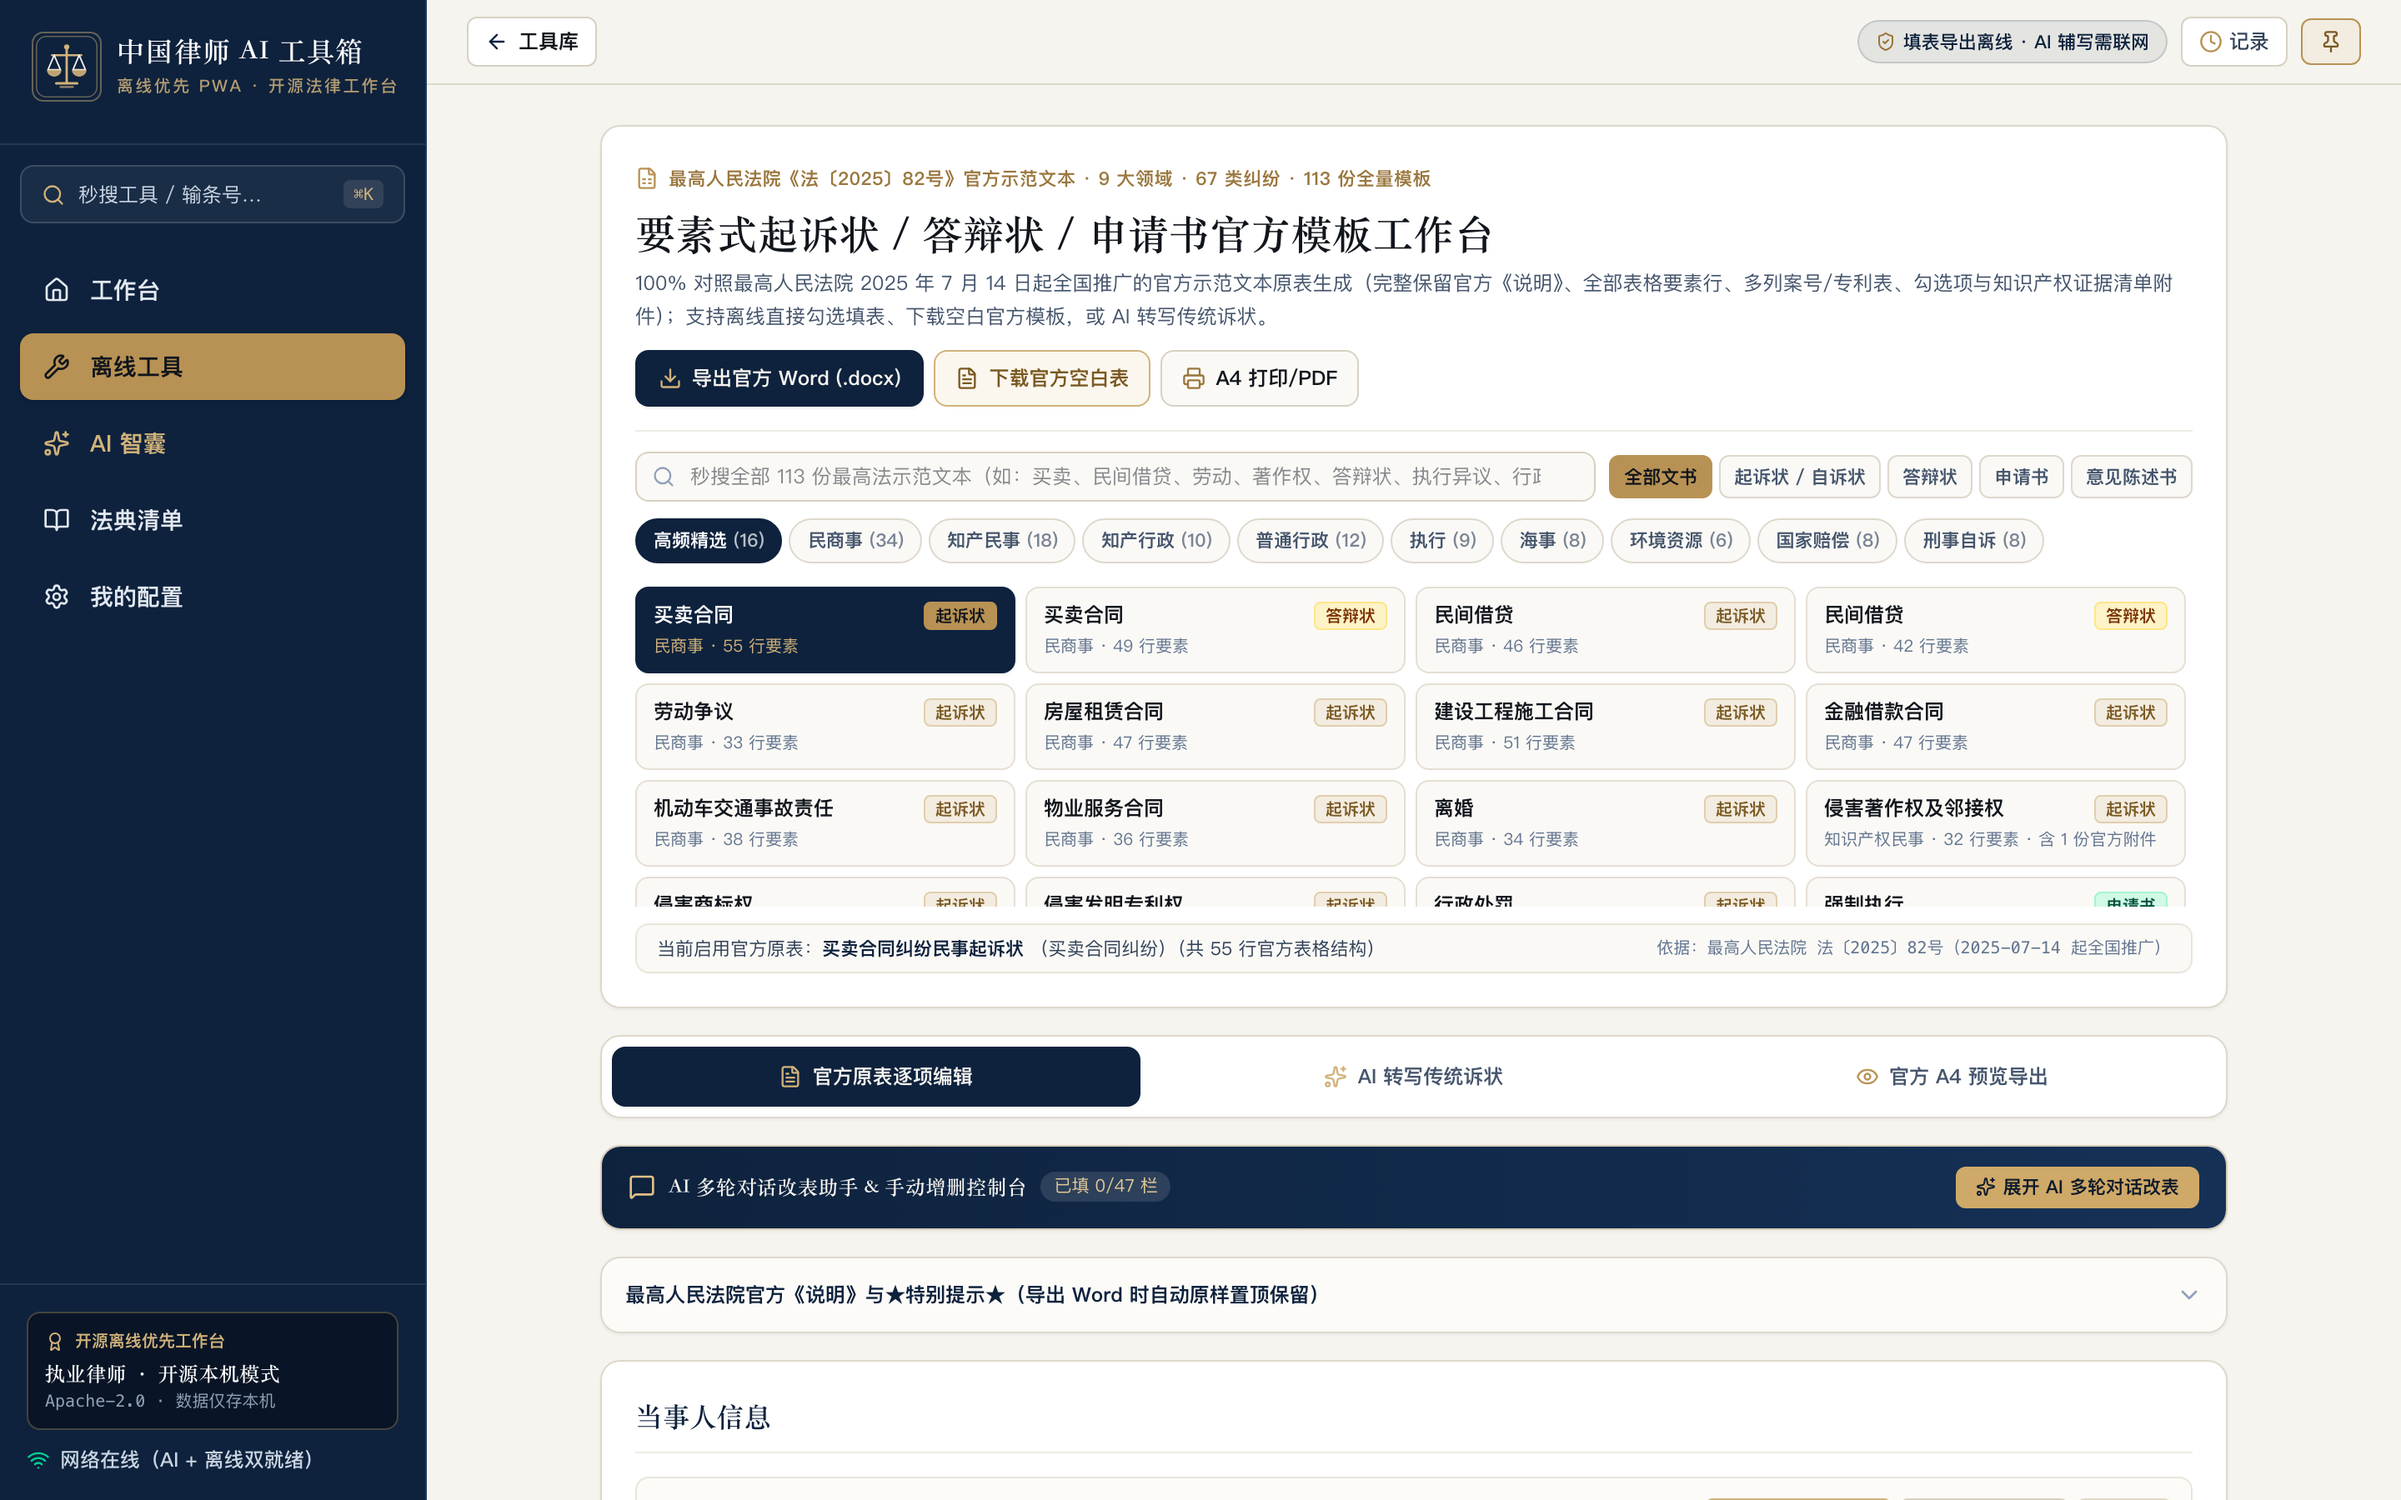
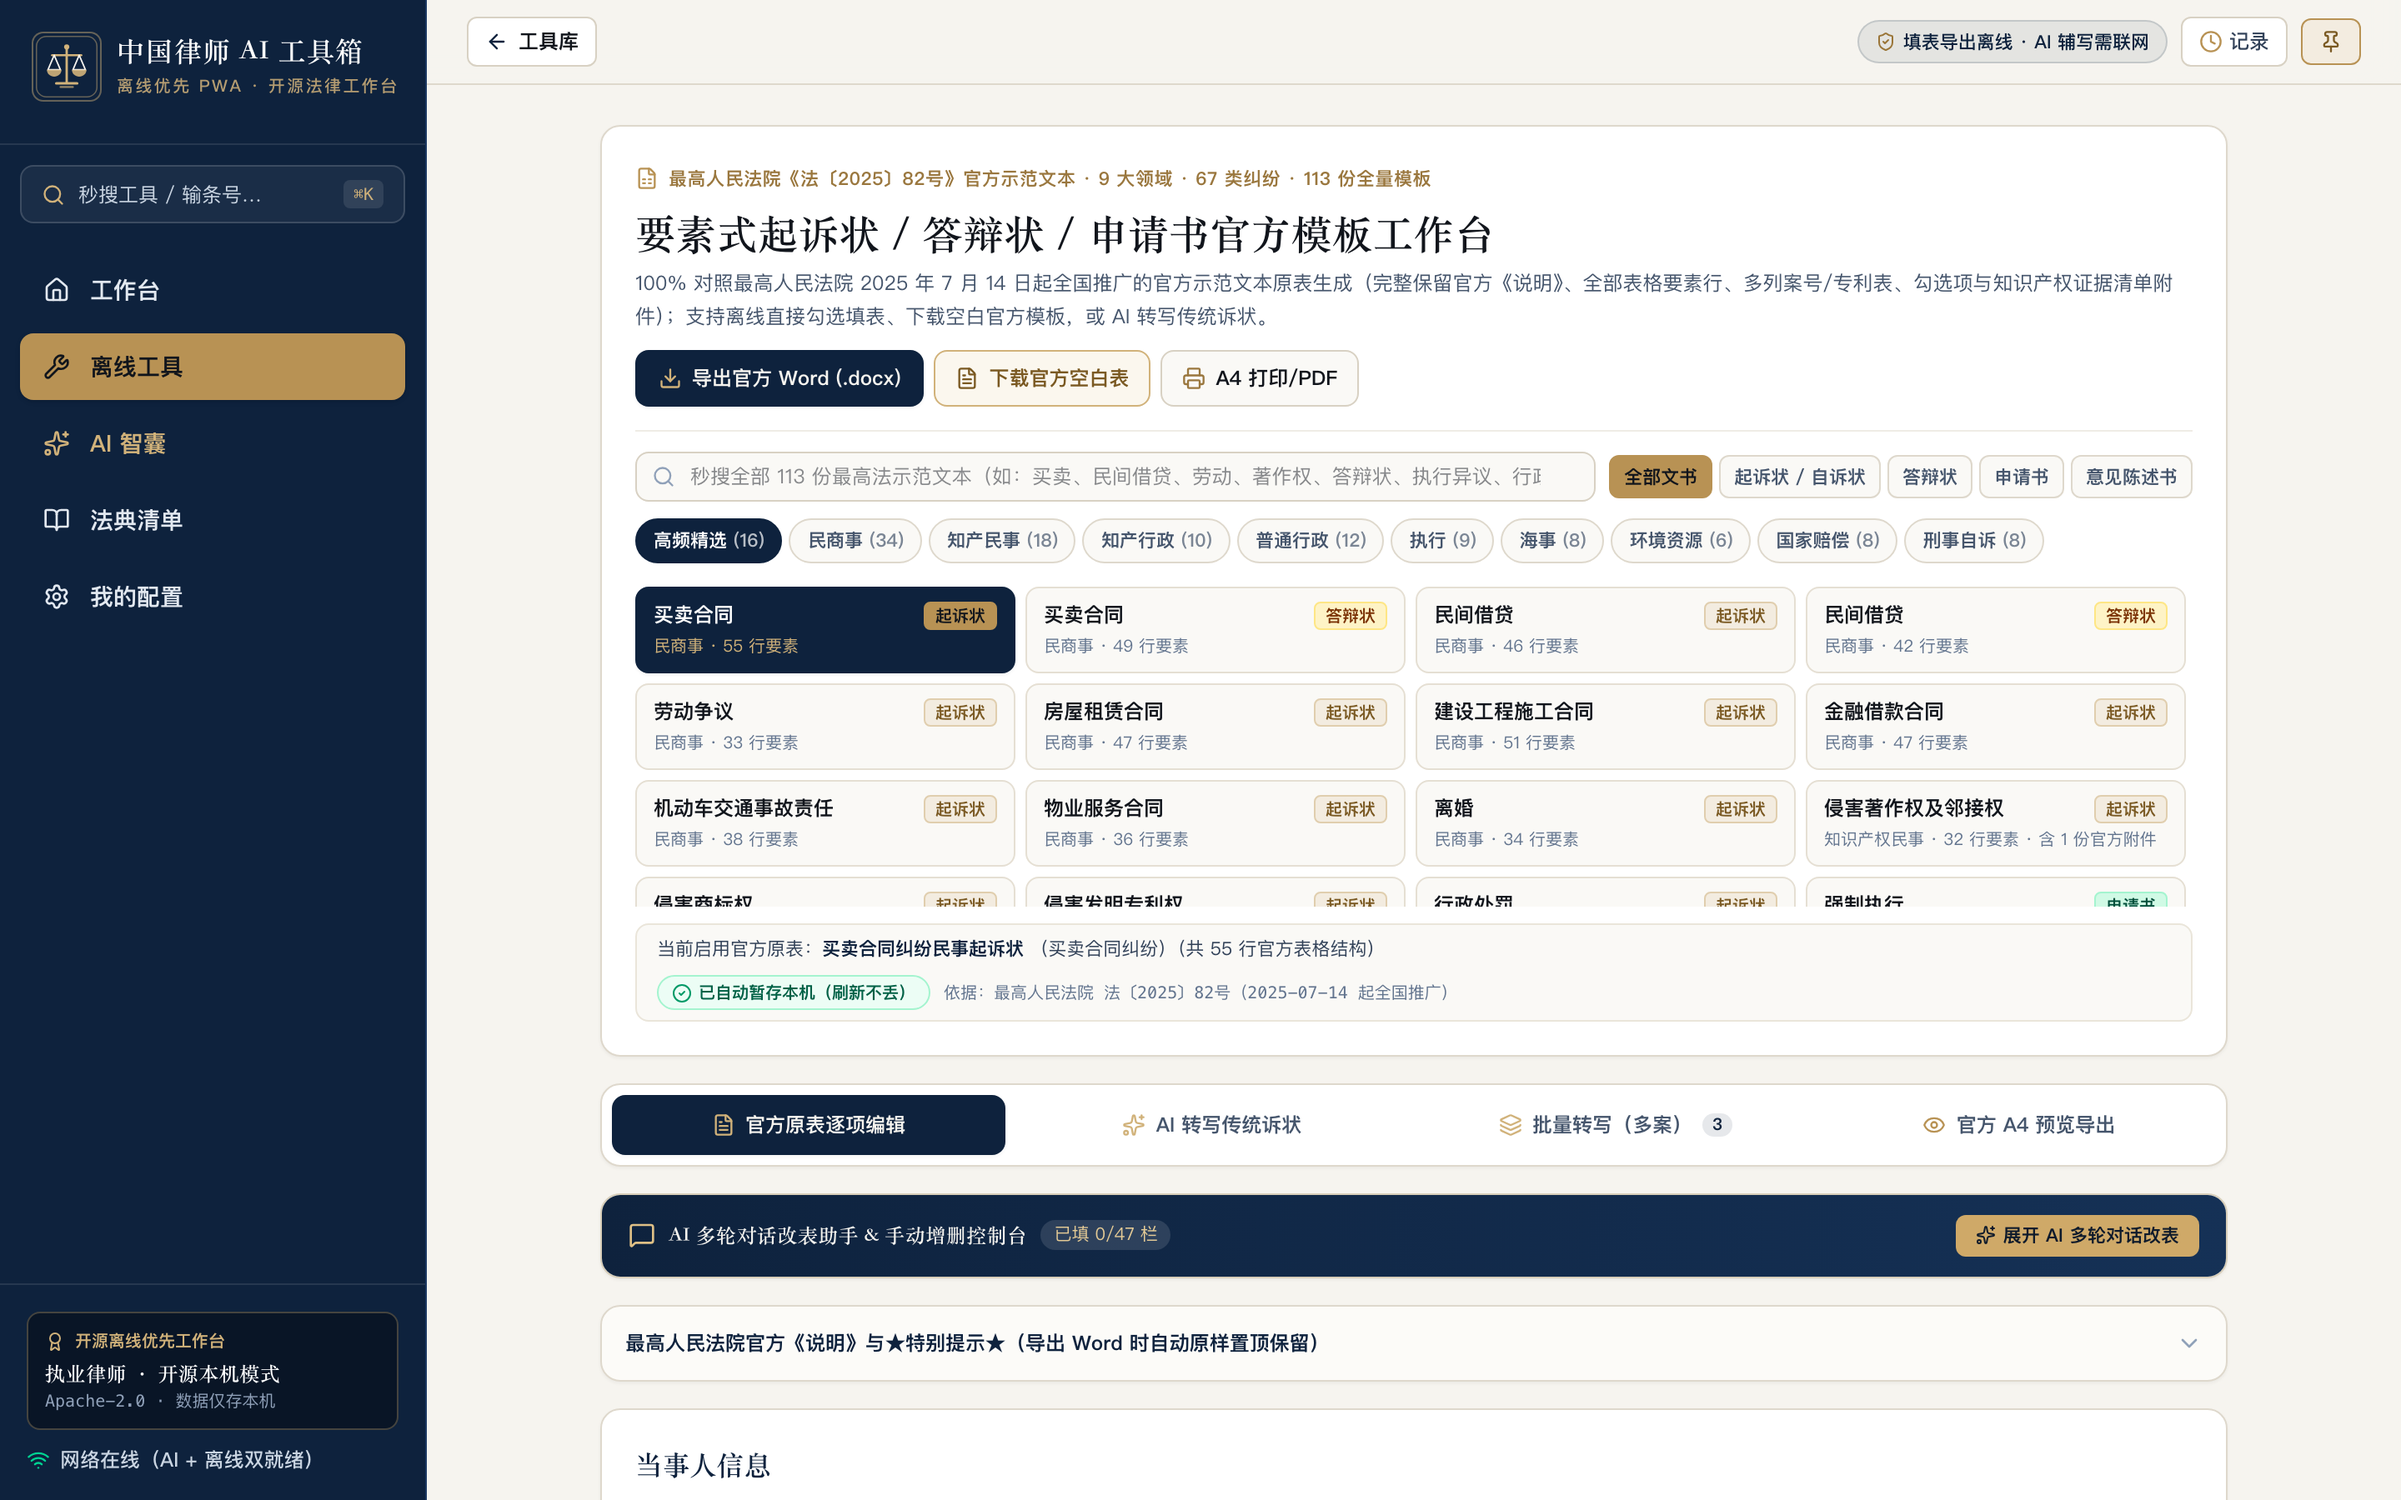
release(v1.7.0): batch SPC complaint converter + ZIP export, reload-proof local drafts, non-intrusive PWA updates, OpenCode Go support, and refreshed screenshots

diff --git a/src/pages/AiHubTab.tsx b/src/pages/AiHubTab.tsx
@@ -1383,7 +1383,7 @@ export const AiHubTab: React.FC = () => {
             <div className="flex flex-wrap items-center justify-between gap-2">
               <div className="flex items-center gap-2 min-w-0">
                 <span className="text-[10.5px] font-semibold uppercase tracking-[0.2em] text-[#DFC086] truncate">
-                  ✦ TIANRAN COUNSEL DESK · 多轮研判工作舱
+                  ✦ CN LAWYER COUNSEL DESK · 多轮研判工作舱
                 </span>
                 {uiTurns.length > 0 && (
                   <span className="rounded-full bg-emerald-400/15 border border-emerald-400/30 px-2 py-0.5 text-[10px] font-semibold text-emerald-300 flex-none">

diff --git a/src/lib/icsGenerator.ts b/src/lib/icsGenerator.ts
@@ -43,7 +43,7 @@ export function buildIcsContent(events: CalendarEventInput[]): string {
   const lines: string[] = [
     'BEGIN:VCALENDAR',
     'VERSION:2.0',
-    'PRODID:-//Zhejiang Tianran Law Firm//Tianran AI Toolbox//CN',
+    'PRODID:-//CN Lawyer AI Toolbox//Legal Deadline Calendar//CN',
     'CALSCALE:GREGORIAN',
     'METHOD:PUBLISH',
     'X-WR-CALNAME:律师办案期限提醒',

diff --git a/README.md b/README.md
@@ -17,13 +17,13 @@
   <img src="./docs/screenshots/01-home.png" alt="中国律师 AI 工具箱 — 随身办案单兵舱首页" width="96%" />
 </p>
 
-| 最高法 113 份官方要素式起诉状/答辩状（真 `.docx` 导出） | 4,111 条离线法典秒查（含司法解释与实务提示） |
+| 最高法 113 份官方要素式起诉状/答辩状（真 `.docx` 导出） | 要素式起诉状批量转写队列（按案独立脱敏 · 一键打包 ZIP） |
 | :---: | :---: |
-| <img src="./docs/screenshots/02-elements-complaint.png" alt="要素式起诉状工作台" width="100%" /> | <img src="./docs/screenshots/03-laws-offline.png" alt="离线法典检索" width="100%" /> |
+| <img src="./docs/screenshots/02-elements-complaint.png" alt="要素式起诉状工作台" width="100%" /> | <img src="./docs/screenshots/06-batch-spc.png" alt="要素式起诉状批量转写队列" width="100%" /> |
 
-| BYOK 6 大法律 AI 专席 + 前置自动脱敏盾 | 全国 31 省律师费测算与 A4 客户报价单 |
+| BYOK 6 大法律 AI 专席 + 前置自动脱敏盾 | 4,111 条离线法典秒查 & 全国 31 省律师费报价单 |
 | :---: | :---: |
-| <img src="./docs/screenshots/04-ai-hub.png" alt="AI 智囊舱" width="100%" /> | <img src="./docs/screenshots/05-lawyer-fee.png" alt="全国 31 省律师费工作台" width="100%" /> |
+| <img src="./docs/screenshots/04-ai-hub.png" alt="AI 智囊舱" width="100%" /> | <img src="./docs/screenshots/03-laws-offline.png" alt="离线法典检索" width="100%" /> |
 
 ---
 
@@ -47,7 +47,7 @@
 
 | 分类 | 工具模块 | 核心能力 |
 | :--- | :--- | :--- |
-| **立案与起草** | **01 要素式起诉状 / 答辩状 / 申请书（最高法 2025 官方全量版）** | 100% 依据最高人民法院《法〔2025〕82号》官方示范文本，完整内置 **9 大领域、67 类纠纷、113 份官方原表**；支持离线交互勾选填表、**律师手动逐行隐藏/恢复及分节新增自定义要素行**、一键带入个人执业档案、**AI 按官方表逐行转写（支持深度推理防遗漏）+ 嵌入式 AI 多轮对话改表助手（对照原诉状补漏、增删行、自动脱敏还原与 10 步撤销）**；另支持**律师自传本机空白 `.docx` 模板原样套打**（零内置固定模板、仅存本机浏览器不上传、自带旧案隐私残留扫描提醒） |
+| **立案与起草** | **01 要素式起诉状 / 答辩状 / 申请书（最高法 2025 官方全量版）** | 100% 依据最高人民法院《法〔2025〕82号》官方示范文本，完整内置 **9 大领域、67 类纠纷、113 份官方原表**；支持离线交互勾选填表、**手动逐行隐藏/恢复及分节新增自定义要素行**、**单案 AI 转写 + 多轮对话改表助手（10 步撤销）**、**批量多案队列转写（一次导入最多 50 份 `.docx`/`.txt`、按案独立脱敏绝不串案、可控并发防限流、随时暂停/断点续跑、单案载入精修回写、一键打包下载 `.zip` 含《批量生成核对清单》）**；另支持**律师自传本机空白 `.docx` 模板原样套打**（零内置固定模板、仅存本机浏览器不上传、自带旧案隐私残留扫描提醒） |
 | **民商与执行** | **02 诉讼费与全成本计算器** | 依据《诉讼费用交纳办法》，同步测算一审、简易减半、保全费、二审与执行费 |
 | | **03 全国 31 省律师费与报价单** | 内置全国 31 省核验标准 + 自定义本所标准；常规/半风险/全风险（司发通〔2021〕87 号红线校验）/计时/知产批量维权；现场点字改价的 A4 多方案报价单 & 合理开支测算单 |
 | | **04 LPR 逾期利息与迟延履行金** | 内置 2019–2026 央行完整 1 年/5 年期 LPR 历史表，自动按调息日分段拆算及日万分之 1.75 加倍迟延履行金 |
@@ -71,8 +71,8 @@
 
 - **6 大全领域法律专席 + 精品文书排版台**：`AI-01 合同风险快审`、`AI-02 法律文书去 AI 味`、`AI-03 案情时间线与要件拆解`、`AI-04 庭审质证与封闭式发问`、`AI-05 客户体面微信回复`、`AI-06 严谨法律对话沙盒`。全部专席均内置**按执业领域分组的场景预设（民事/民商事、知识产权、刑事辩护与控告、行政诉讼与复议、执行与仲裁、非诉函件/常法顾问及其他通用文书）**、**常用指令收藏夹**与**暖象牙纸面法律 Markdown 排版引擎（支持直接渲染 7 列核对表与时间线表）**。
 - **轻案件口袋 & 执业落款统一档案**：首页支持按案名建立纯本地**轻案件口袋**，自动归组诉讼费/LPR/诉状测算与保全期限并一键导出《案件初评估简报.docx》；「我的配置」填一次个人执业落款档案即可联动全部文书与报价单。
-- **隐私安全闭环**：默认开启「发送前自动本地脱敏 + 收到回复自动本地还原」，支持直接导入本地 `.docx`/`.txt` 与截图（多模态视觉识图），且自带**本机 4–8 位 PIN 码保险箱**（Web Crypto `PBKDF2 + AES-256-GCM` 密文保存 API Key）。
-- **多厂商直连 + 模型自动拉取**：原生支持 DeepSeek、阿里云百炼（通义千问）、硅基流动、月之暗面 Kimi、智谱 GLM、火山方舟豆包、OpenAI、Anthropic Claude 及本地 Ollama / OpenAI 兼容接口；填入 Base URL 与 API Key 后支持**一键自动拉取可用模型列表**并智能匹配极速/推理/识图槽位。
+- **隐私安全闭环 & 防刷新不丢**：默认开启「发送前自动本地脱敏 + 弹窗预览确认 + 返回自动还原」（绝不静默改道中转服务器），自带**本机 4–8 位 PIN 码保险箱**（Web Crypto `PBKDF2 + AES-256-GCM`）；核心填表草稿、导入起诉状原文、AI 多轮对话与批量队列全部纯本机自动暂存（URL Hash 记位 + IndexedDB 持久化 + PWA 温和更新提示条，切后台/重载不丢进度、绝不上传云端）。
+- **多厂商直连 + OpenCode Go 订阅 + 模型自动拉取**：原生支持 DeepSeek、阿里云百炼（通义千问）、硅基流动、月之暗面 Kimi、智谱 GLM、火山方舟豆包、**OpenCode Go 订阅（自动附带 `x-opencode-session` 会话头、过滤非对话模型）**、OpenAI、Anthropic Claude 及本地 Ollama / OpenAI 兼容接口；支持**一键自动拉取可用模型列表**并智能匹配极速/推理/识图槽位。
 - **激活码跨端加密自动同步（`AUTH_MODE=license` 模式）**：律师在任意设备配置一次 API Key、模型与常用办案偏好，系统自动按激活码以 `AES-256-GCM` 密文隔离同步（另可选零知识独立同步口令）；换手机或新浏览器打开激活链接 1 秒自动恢复配置，无需重复填写。
 
 ---
